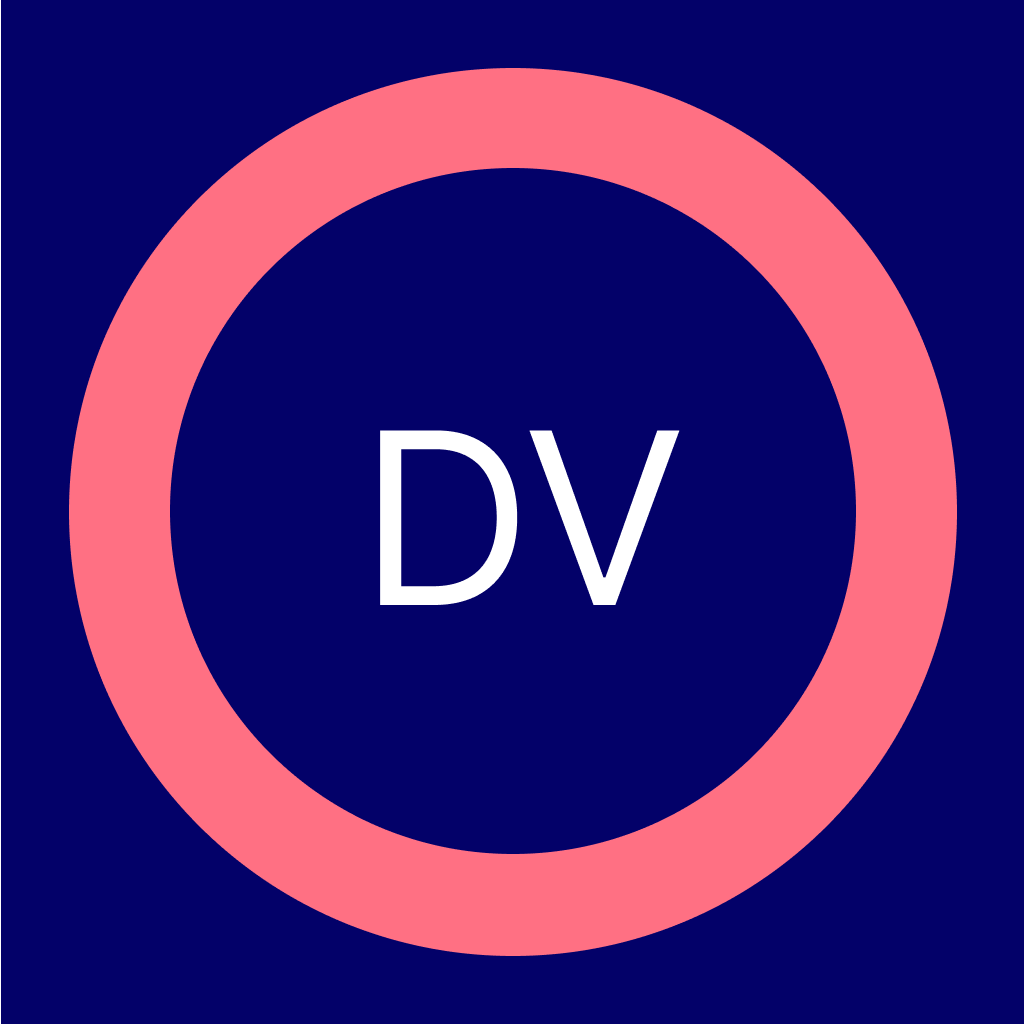
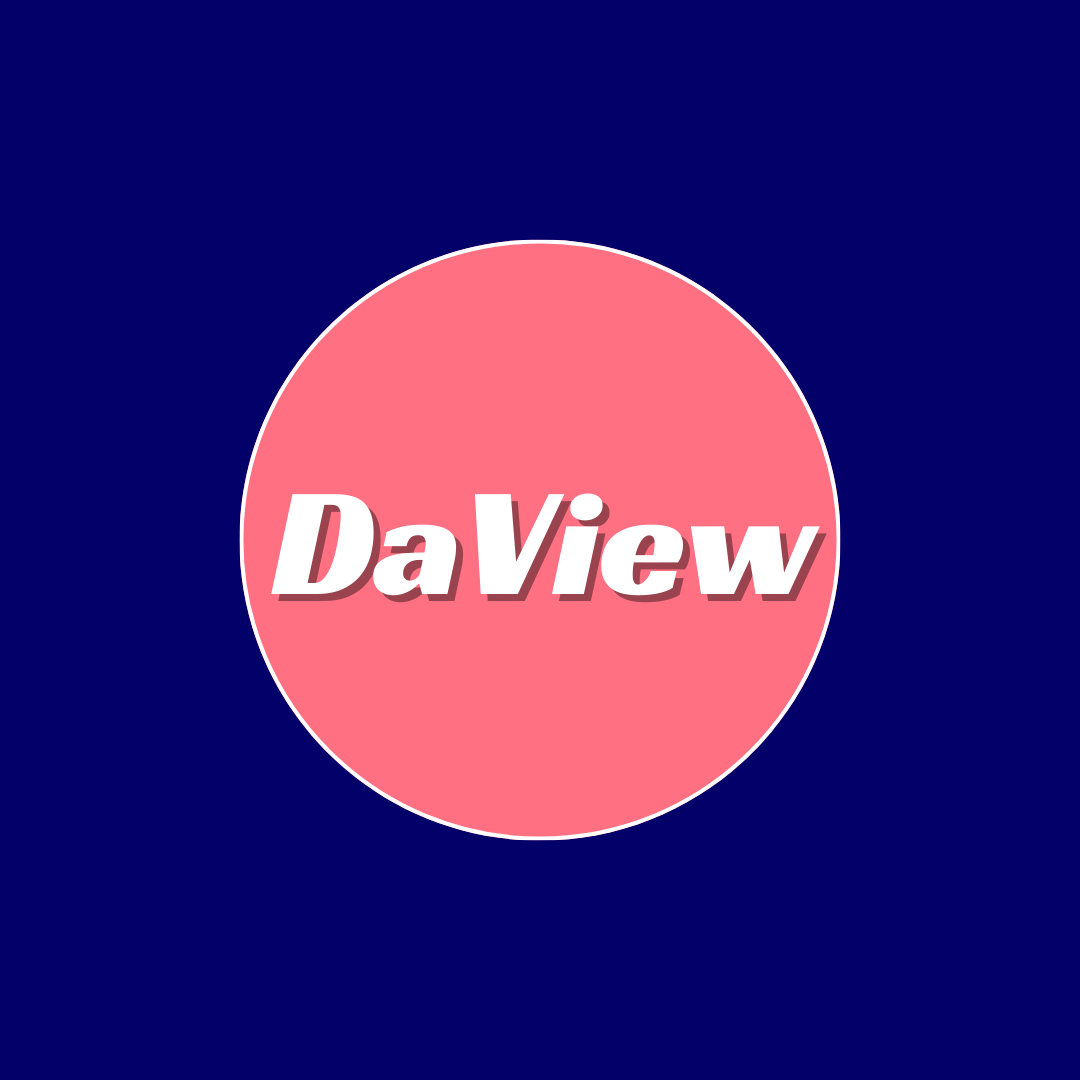
splash screen changed

diff --git a/components/SignUp.tsx b/components/SignUp.tsx
@@ -100,7 +100,7 @@ export default function SignUp({ route, navigation }: Props) {
           /**
            * TODO: change below to expoPushToken
            */
-          deviceToken: 123456,//expoPushToken,
+          deviceToken: expoPushToken,
           availabilty: noWeek,
         }
       )
